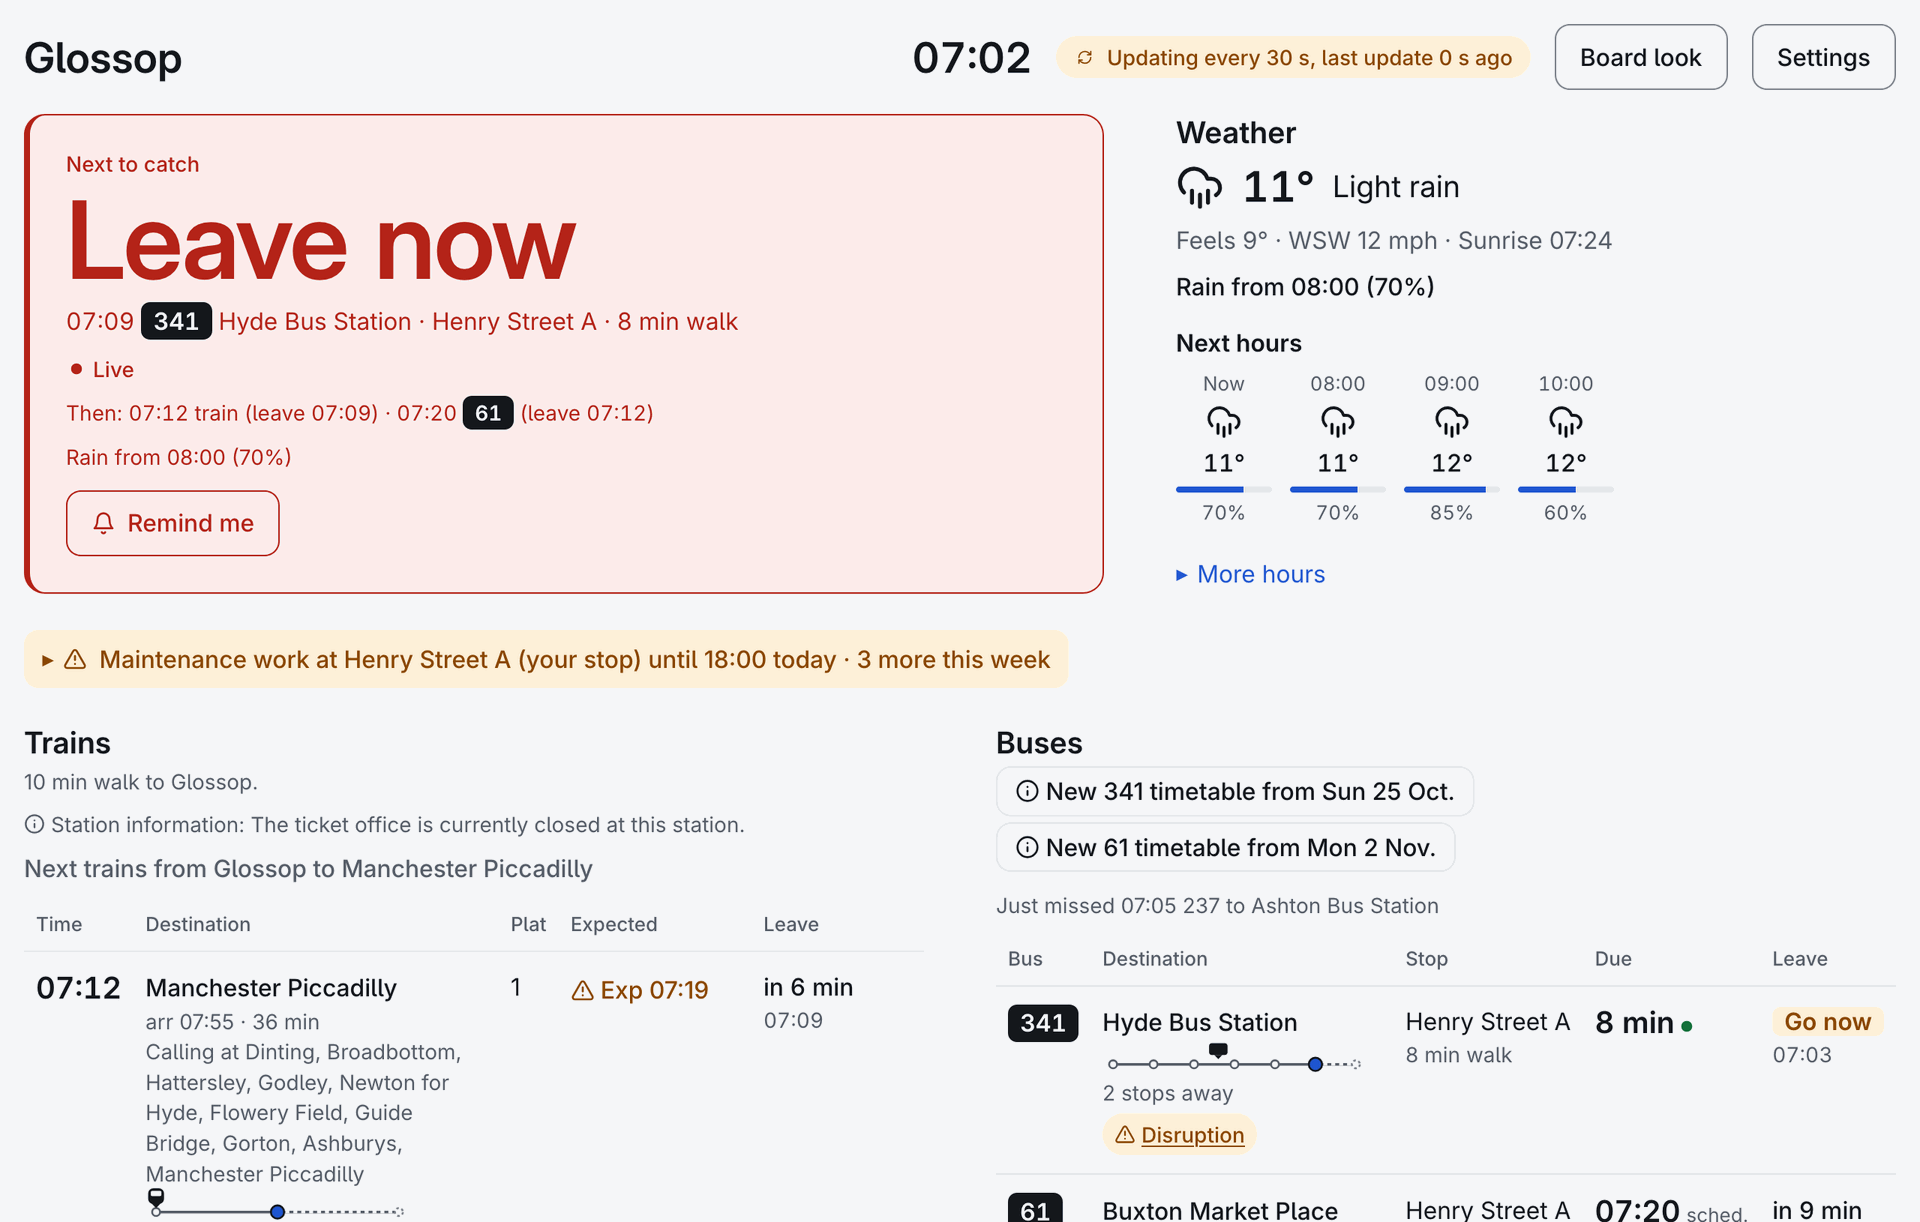
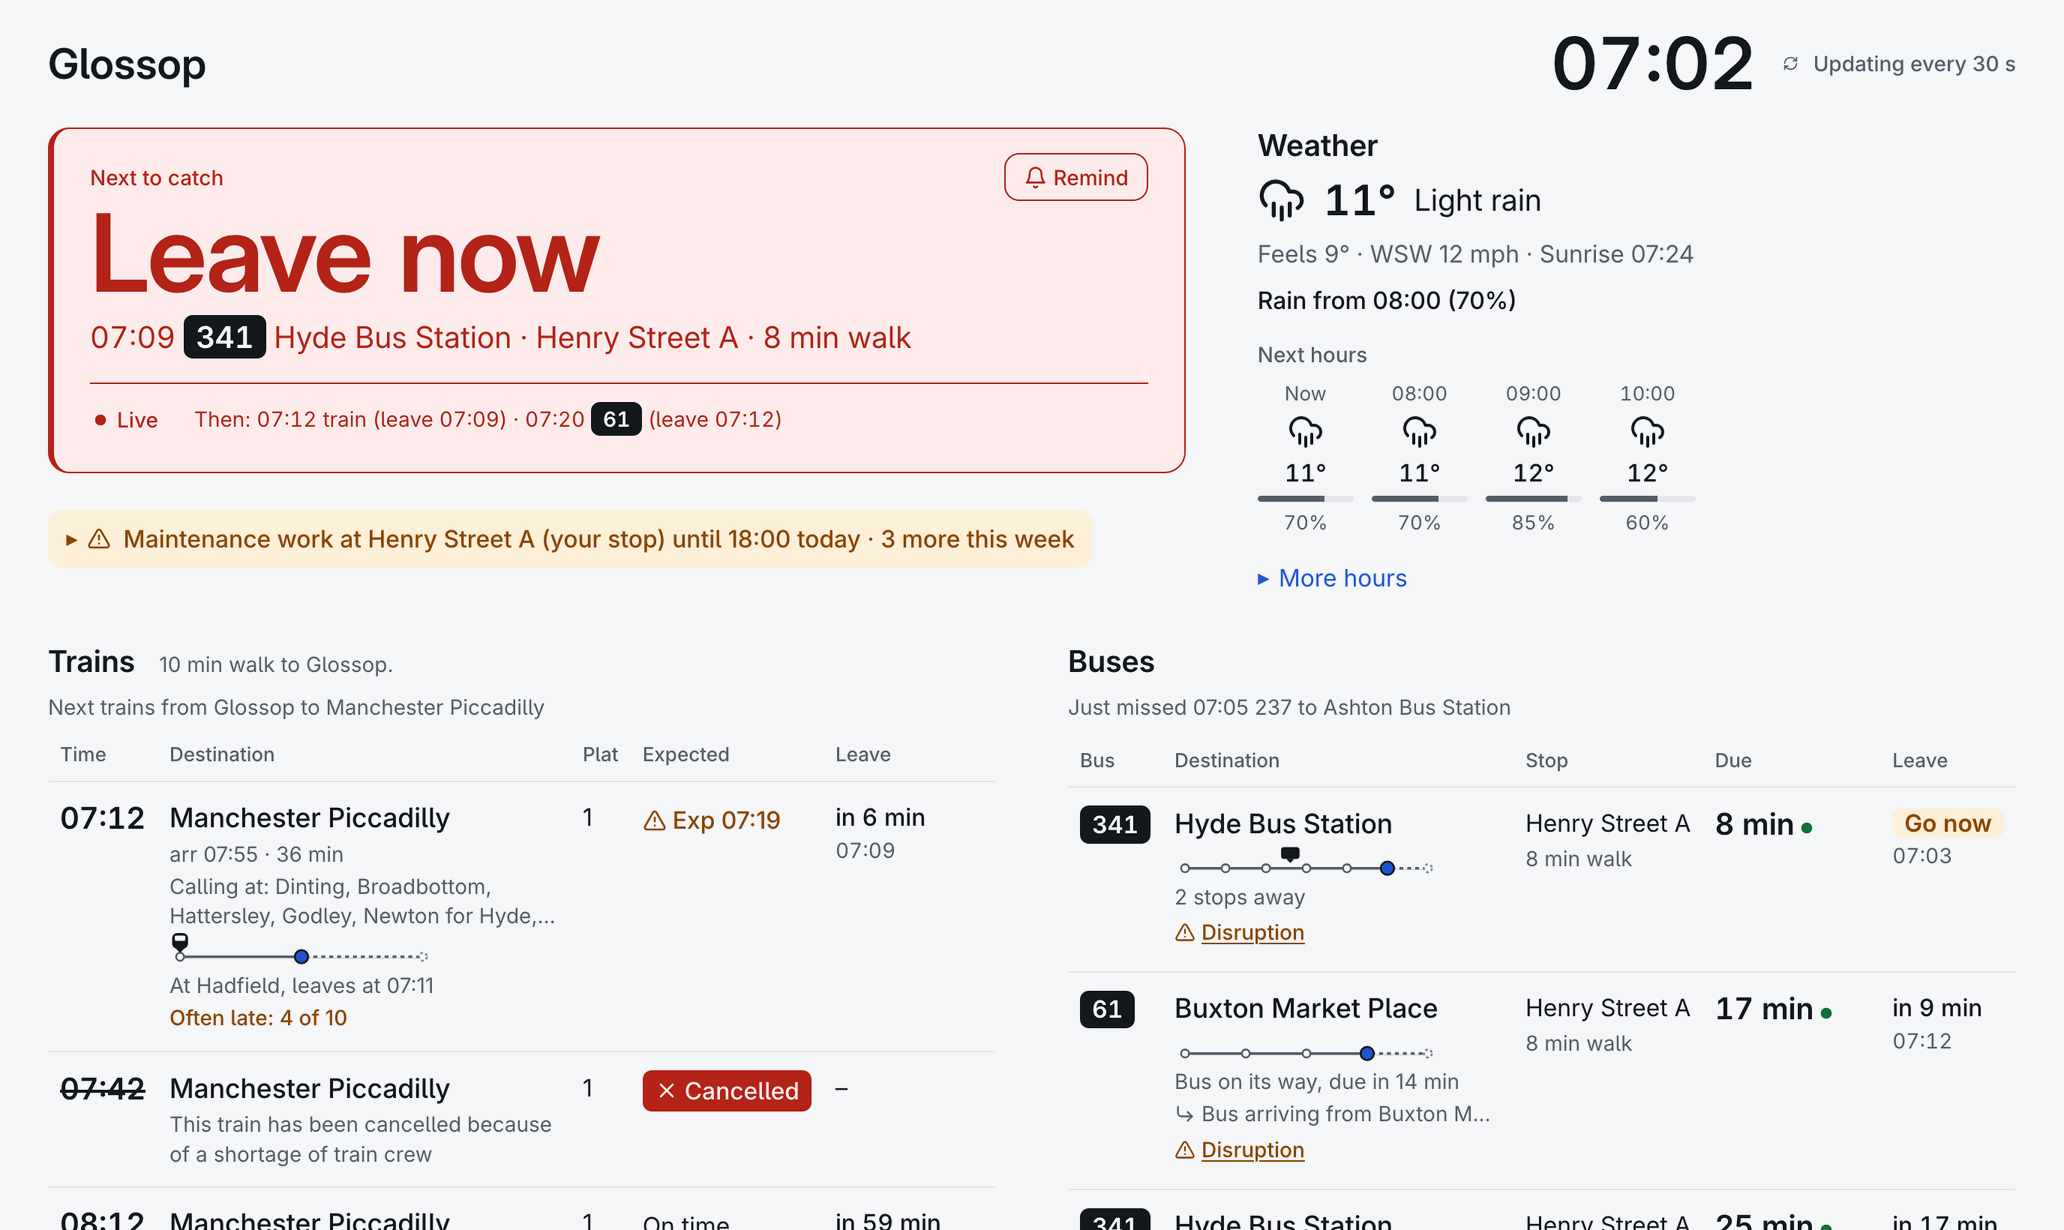
docs: retake the light dashboard and the settings and wizard pictures
dashboard-light.png still had the Board look button and the amber status;
it is now taken as dashboard-dark.png is, at 07:02. The settings Dashboard
page and the wizard's station and walk steps are taken from the new doc
tool after the design pass; the README's words for the settings picture
say what it now shows.

diff --git a/CHANGELOG.md b/CHANGELOG.md
@@ -41,6 +41,7 @@ Notable changes to this project. The format follows [Keep a Changelog](https://k
 - On a wide screen the disruption line sits under Next to catch, beside the weather, rather than across the page under both, so the trains and buses start sooner. Screen readers and the Tab key meet it where they did, after Next to catch.
 - The trains and buses start sooner: the walk to the station sits beside the Trains heading, and station information and the bus timetable changes coming up are quiet notes under their boards, no longer boxes that looked like buttons above them.
 - The dashboard's rows are calmer: destinations a size larger, everything under them one quiet size, the first train's calling points two lines in every look (one scrolling line in the station looks while they scroll) and a bus coming in one line, each cut short with the rest in the sheet, and "Often late" and a bus's **Disruption** link as amber words rather than pills.
+- The settings site and setup wizard are tidier: each section's intro stands apart from its first field, read-only lists line up in one column, the current tab leads the others, the display's row on the Board tab says where it is set once, a bus stop's distance sits under its name, and a done setup step shows its tick in place of its number, so the steps no longer wrap as you go.
 - The user guide is a page per topic, indexed by `docs/user-guide.md`; the Docker pages are one, and the code layout is in `docs/architecture.md`.
 
 ### Fixed

diff --git a/README.md b/README.md
@@ -72,7 +72,7 @@ No config files to write. Give the setup wizard your postcode or address: it fin
 
 Everything else is on the settings site, in plain words, behind one password:
 
-<img width="49%" alt="The settings site's Dashboard page: position strips on or off, and quiet hours by day" src="docs/images/settings-dashboard.png">
+<img width="49%" alt="The settings site's Dashboard page: how many trains and buses it lists, and position strips on or off" src="docs/images/settings-dashboard.png">
 
 ## What it covers
 
